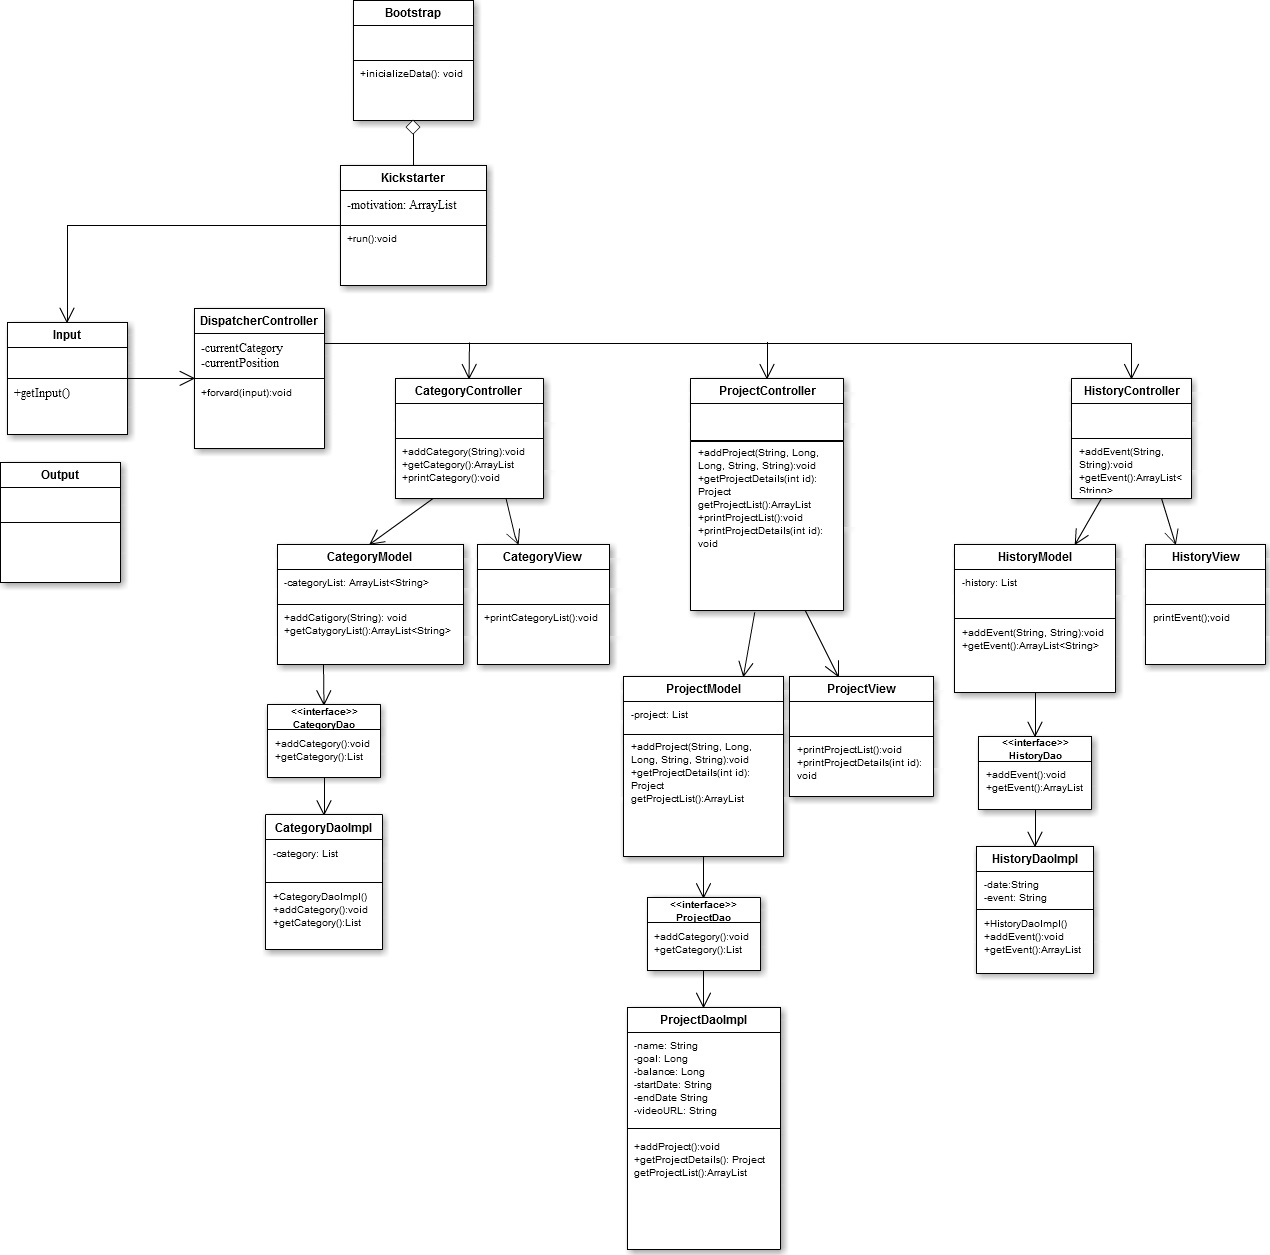
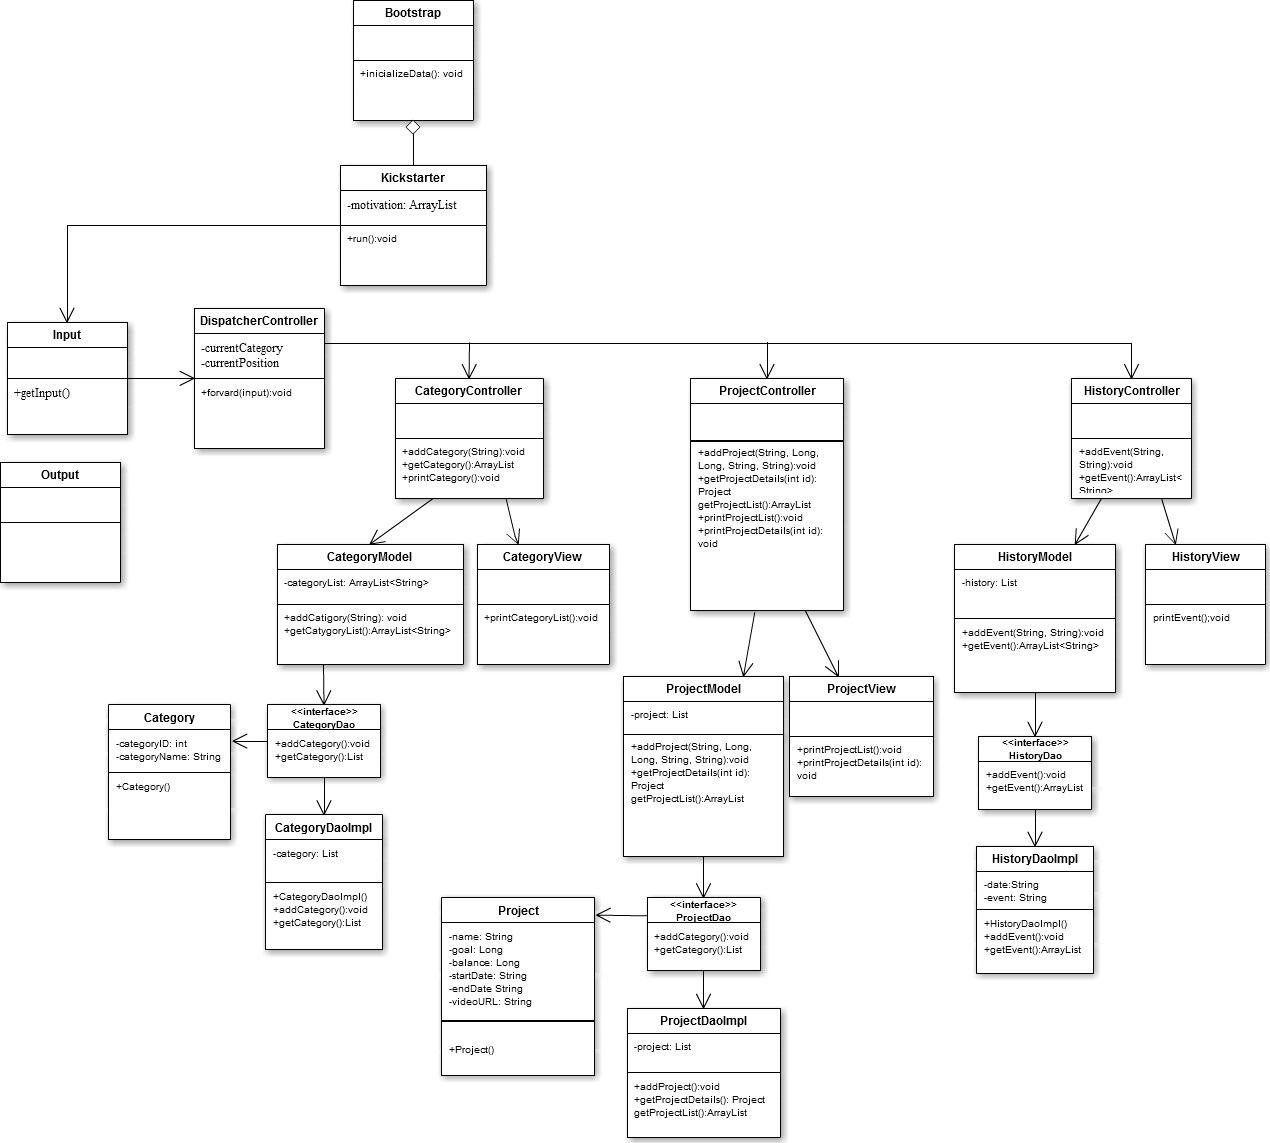
Update package structure in dao folder
git-svn-id: http://go-java-1.googlecode.com/svn@4900 371e26f7-1d5d-4d7b-6139-2def7fa80f1e

diff --git a/trunk/GoJava5/artem.belskii/Kickstarter/src/main/java/belskii/artem/kickstarter/mvc/model/CategoryModel.java b/trunk/GoJava5/artem.belskii/Kickstarter/src/main/java/belskii/artem/kickstarter/mvc/model/CategoryModel.java
@@ -1,9 +1,10 @@
 package belskii.artem.kickstarter.mvc.model;
 
 import java.util.List;
-import belskii.artem.kickstarter.dao.Category;
-import belskii.artem.kickstarter.dao.CategoryDao;
-import belskii.artem.kickstarter.dao.CategoryDaoImplHardCoding;
+
+import belskii.artem.kickstarter.dao.category.Category;
+import belskii.artem.kickstarter.dao.category.CategoryDao;
+import belskii.artem.kickstarter.dao.category.CategoryDaoImplHardCoding;
 
 public class CategoryModel {
 	CategoryDao categoryDao = new CategoryDaoImplHardCoding();

diff --git a/trunk/GoJava5/artem.belskii/Kickstarter/src/main/java/belskii/artem/kickstarter/dao/category/Category.java b/trunk/GoJava5/artem.belskii/Kickstarter/src/main/java/belskii/artem/kickstarter/dao/category/Category.java
@@ -1,4 +1,4 @@
-package belskii.artem.kickstarter.dao;
+package belskii.artem.kickstarter.dao.category;
 
 public class Category {
 	private int categoryId;
@@ -13,16 +13,12 @@ public class Category {
 		return categoryId;
 	}
 
-	public void setCategoryId(int categoryId) {
+	public void updateCategoryId(int categoryId) {
 		this.categoryId = categoryId;
 	}
 
 	public String getCategoryName() {
 		return categoryName;
-	}
-
-	public void setCategoryName(String categoryName) {
-		this.categoryName = categoryName;
 	}
 
 }

diff --git a/trunk/GoJava5/artem.belskii/Kickstarter/src/test/java/belskii/artem/kickstarter/mvc/model/CategoryModelTest.java b/trunk/GoJava5/artem.belskii/Kickstarter/src/test/java/belskii/artem/kickstarter/mvc/model/CategoryModelTest.java
@@ -6,9 +6,9 @@ import java.util.ArrayList;
 import org.junit.Before;
 import org.junit.Test;
 
-import belskii.artem.kickstarter.dao.Category;
-import belskii.artem.kickstarter.dao.CategoryDao;
-import belskii.artem.kickstarter.dao.CategoryDaoImplHardCoding;
+import belskii.artem.kickstarter.dao.category.Category;
+import belskii.artem.kickstarter.dao.category.CategoryDao;
+import belskii.artem.kickstarter.dao.category.CategoryDaoImplHardCoding;
 
 public class CategoryModelTest {
 	private CategoryDao categoryDao;

diff --git a/trunk/GoJava5/artem.belskii/Kickstarter/src/main/java/belskii/artem/kickstarter/dao/category/CategoryDao.java b/trunk/GoJava5/artem.belskii/Kickstarter/src/main/java/belskii/artem/kickstarter/dao/category/CategoryDao.java
@@ -1,11 +1,9 @@
-package belskii.artem.kickstarter.dao;
+package belskii.artem.kickstarter.dao.category;
 
 import java.util.List;
 
 public interface CategoryDao {
 	public void addCategory(Category categoryInfo);
-
 	public List<Category> getCategoryList();
-
 	public String getCategoryById(int id);
 }

diff --git a/trunk/GoJava5/artem.belskii/Kickstarter/src/main/java/belskii/artem/kickstarter/dao/category/CategoryDaoImplHardCoding.java b/trunk/GoJava5/artem.belskii/Kickstarter/src/main/java/belskii/artem/kickstarter/dao/category/CategoryDaoImplHardCoding.java
@@ -1,7 +1,6 @@
-package belskii.artem.kickstarter.dao;
+package belskii.artem.kickstarter.dao.category;
 
 import java.util.ArrayList;
-import java.util.List;
 
 public class CategoryDaoImplHardCoding implements CategoryDao {
 	private ArrayList<Category> categoryes;
